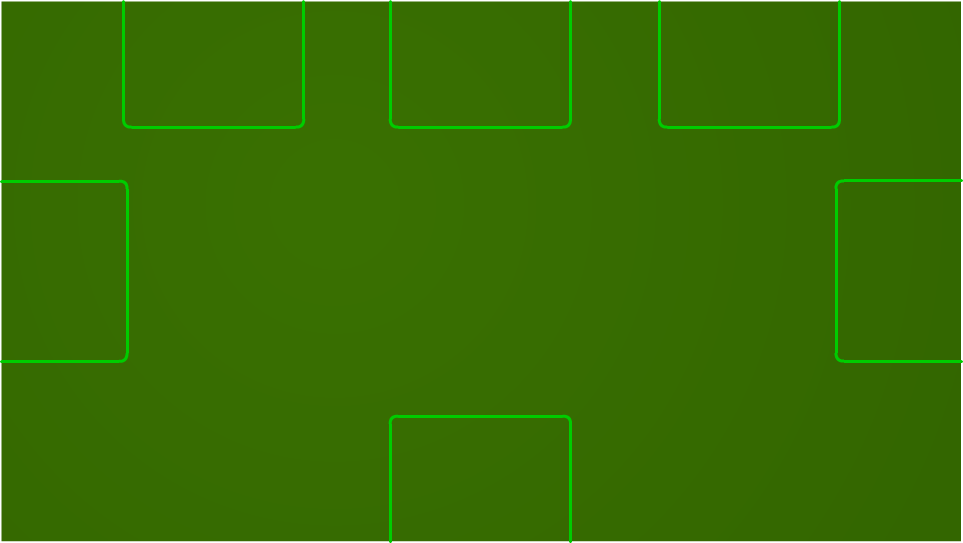
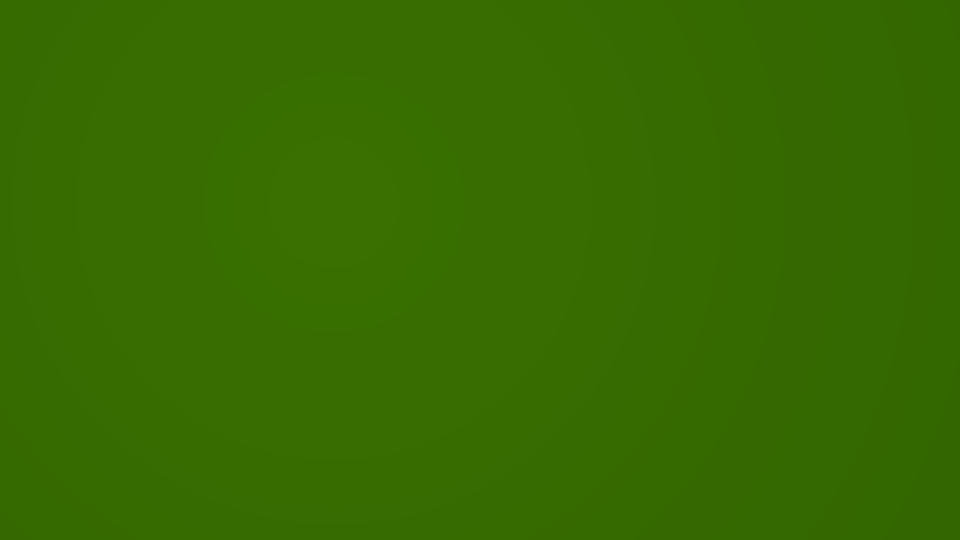
Adding expandable player spots

diff --git a/public/main.js b/public/main.js
@@ -26,17 +26,18 @@ const CARD_WIDTH_SM = 50, CARD_HEIGHT_SM = 73;
 playerSpot = {
   id:0,
   x: 0,
-  y: 180,
+  y: -422,
   label: null,
   bounds: null,
-  playerName: ''
+  playerName: '',
+  group: null
 }
 playerSpots.push(playerSpot);
 
 playerSpot = {
   id:1,
-  x: 122,
-  y: 0,
+  x: 166,
+  y: -422,
   label: null,
   bounds: null
 }
@@ -44,8 +45,8 @@ playerSpots.push(playerSpot);
 
 playerSpot = {
   id:2,
-  x: 389,
-  y: 0,
+  x: 336,
+  y: -422,
   label: null,
   bounds: null
 }
@@ -53,8 +54,8 @@ playerSpots.push(playerSpot);
 
 playerSpot = {
   id:3,
-  x: 658,
-  y: 0,
+  x: 504,
+  y: -422,
   label: null,
   bounds: null
 }
@@ -62,8 +63,8 @@ playerSpots.push(playerSpot);
 
 playerSpot = {
   id:4,
-  x: 835,
-  y: 180,
+  x: 672,
+  y: -422,
   label: null,
   bounds: null
 }
@@ -71,8 +72,8 @@ playerSpots.push(playerSpot);
 
 playerSpot = {
   id:5,
-  x: 389,
-  y: 414,
+  x: 336,
+  y: 963,
   label: null,
   bounds: null
 }
@@ -107,6 +108,9 @@ function preload() {
 
   //hand hit area
   game.load.image('hitArea', 'images/hitArea.png');
+
+  //player spot
+  game.load.image('playerSpot', 'images/gPlayerSpot.png');
 
   //buttons
   game.load.image('btnStagger', 'images/btnStagger.png');
@@ -152,13 +156,34 @@ handArea.y = bg.height;
 var newSpot;
 for(var i=0; i<playerSpots.length; i++)
 {
-  newSpot = game.add.sprite(playerSpots[i].x, playerSpots[i].y, 'hitArea');
-  newSpot.width = (i !== 0 && i !== 4) ? SPOT_WIDTH : SPOT_HEIGHT;
-  newSpot.height = (i !== 0 && i !== 4) ? SPOT_HEIGHT : SPOT_WIDTH;
-  newSpot.label = addText('', playerSpots[i].x + 10, playerSpots[i].y + 6);
-  newSpot.label.alpha = .6;
+  newSpot = game.add.sprite(playerSpots[i].x, playerSpots[i].y, 'playerSpot');
+  newSpot.id = i;
+  newSpot.x = playerSpots[i].x + newSpot.width/2;
+  //newSpot.width = (i !== 0 && i !== 4) ? SPOT_WIDTH : SPOT_HEIGHT;
+  //newSpot.height = (i !== 0 && i !== 4) ? SPOT_HEIGHT : SPOT_WIDTH;
+  newSpot.anchor = new Phaser.Point(.5, 0);
+  
+  //input for the group...
+  newSpot.inputEnabled = true;
+  newSpot.input.pixelPerfectAlpha = 100;
+  newSpot.input.pixelPerfectClick = true;
+  //newSpot.input.pixelPerfectOver = true;
+  newSpot.events.onInputUp.add(playerSpot_OnUp);
+
+  //newSpot.label.alpha = .6;
+  if(i === 5)
+  {
+    newSpot.label = addText('', newSpot.x, newSpot.y - newSpot.height + 12);
+    newSpot.angle = 180;
+  } else {
+    newSpot.label = addText('', newSpot.x, playerSpots[i].y + newSpot.height - 10);
+  }
   playerSpots[i].label = newSpot.label;
   playerSpots[i].bounds = newSpot;
+  playerSpots[i].group = game.add.group();
+  playerSpots[i].group.add(newSpot);
+  playerSpots[i].group.add(newSpot.label);
+  playerSpots[i].isHidden = true;
 }
 
 
@@ -373,6 +398,19 @@ function card_OnDown(thisSprite) {
 
 function card_OnUp(thisSprite) {
 
+}
+
+//PLAYER SPOT INPUT//////////////////////////
+function playerSpot_OnUp(spotSprite) {
+  var newY;
+  if(spotSprite.id != 5){
+    newY = playerSpots[spotSprite.id].isHidden ? 422 : 0;
+  } else {
+    newY = playerSpots[spotSprite.id].isHidden ? -422 : 0;
+  }
+
+  game.add.tween(playerSpots[spotSprite.id].group).to({y:newY}, 250, "Sine", true);
+  playerSpots[spotSprite.id].isHidden = !playerSpots[spotSprite.id].isHidden;
 }
 
 
@@ -779,16 +817,11 @@ function removeCardFromHand(thisSprite)
 //TEXT/////////////
 function addText(textString, x, y)
 {
-  text = game.add.text(x, y, textString);
-  //text.anchor.set(0);
-  text.align = 'left';
+  var style = { font: "bold 16px Arial", fill: "#ffffff", boundsAlignH: "center", boundsAlignV: "middle" };
+  text = game.add.text(x, y, textString, style);
+  text.anchor.set(0.5, .5);
 
-  text.font = 'Arial Black';
-  text.fontSize = 16;
-  text.fontWeight = 'bold';
-  text.fill = '#ffffff';
-
-  text.setShadow(0, 0, 'rgba(0, 0, 0, 0.5)', 0);
+  //text.setShadow(0, 0, 'rgba(0, 0, 0, 0.5)', 1);
 
   return text;
 }
